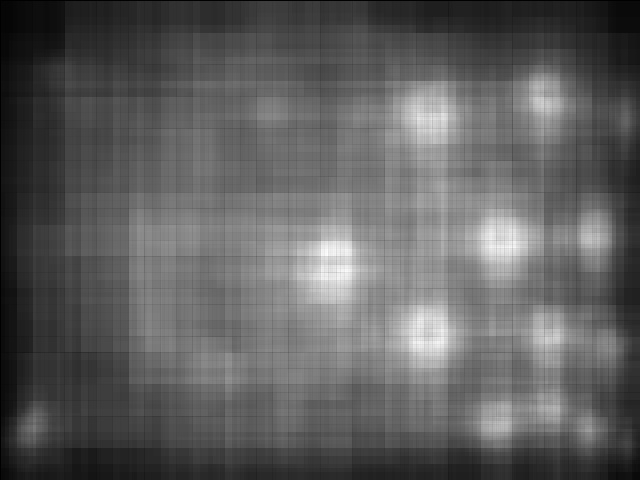
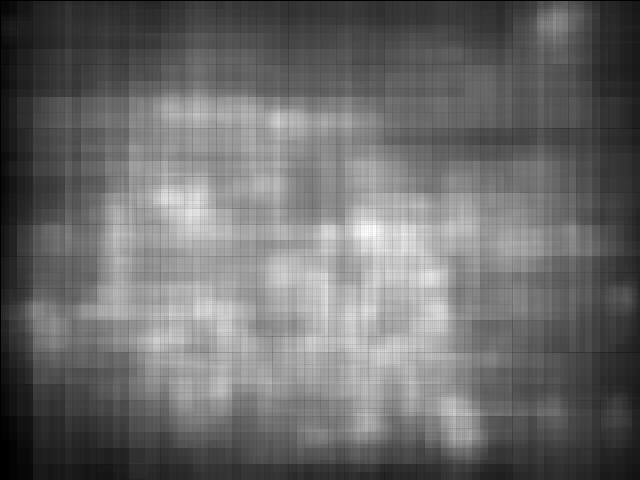
testing reward functions

diff --git a/src/HilbertOptimization.cpp b/src/HilbertOptimization.cpp
@@ -267,28 +267,28 @@ void HilbertOptimization::glDraw()
 
 //    }
 
-    if(greedyPath)
-    {
-        glLineWidth(7);
-        glBegin(GL_LINES);
+//    if(greedyPath)
+//    {
+//        glLineWidth(7);
+//        glBegin(GL_LINES);
 
-        for(int i=0; i<greedyPath->path.size()-1;++i)
-        {
-            double r = greedyPath->path[i+1]->NodeReward()/(CNode::maxDepth+1);
+//        for(int i=0; i<greedyPath->path.size()-1;++i)
+//        {
+//            double r = greedyPath->path[i+1]->NodeReward()/(CNode::maxDepth+1);
 
-            //assert(r>=0);
-            //assert(r<=1);
+//            //assert(r>=0);
+//            //assert(r<=1);
 
-            glColor3f(0,r,1-r);
-            TooN::Vector<3> p1 = greedyPath->path[i]->cnode->GetPos();
-            TooN::Vector<3> p2 = greedyPath->path[i+1]->cnode->GetPos();
+//            glColor3f(0,r,1-r);
+//            TooN::Vector<3> p1 = greedyPath->path[i]->cnode->GetPos();
+//            TooN::Vector<3> p2 = greedyPath->path[i+1]->cnode->GetPos();
 
-            glVertex3f(p1[0],p1[1],p1[2]);
-            glVertex3f(p2[0],p2[1],p2[2]);
-        }
+//            glVertex3f(p1[0],p1[1],p1[2]);
+//            glVertex3f(p2[0],p2[1],p2[2]);
+//        }
 
-        glEnd();
+//        glEnd();
 
-    }
+//    }
 
 }

diff --git a/src/GNode.cpp b/src/GNode.cpp
@@ -273,6 +273,7 @@ bool GNode::GetMaxRewardPath(GNode::Path &p)
 
 bool GNode::ShouldBePruned(double r, double c, double budget, double greedy_reward, double leastRewardFound)
 {
+    static int nnn=0;
     if(c + minPathToGoalCost > budget)
     {
         return true;
@@ -288,7 +289,8 @@ bool GNode::ShouldBePruned(double r, double c, double budget, double greedy_rewa
         {
             if(leastRewardFound > r + cnode->nextHilbertLeaf->GetGNode()->maxRewardToGoal)
             {
-               // ROS_INFO("UBound: %f CUR: %f %f", leastRewardFound, r, cnode->nextHilbertLeaf->GetGNode()->maxRewardToGoal);
+                nnn++;
+                ROS_INFO_THROTTLE_NAMED(1,"UBOUND","UBound %d: %f CUR: %f %f",nnn, leastRewardFound, r, cnode->nextHilbertLeaf->GetGNode()->maxRewardToGoal);
 
                 return true;
             }

diff --git a/src/CNode.cpp b/src/CNode.cpp
@@ -162,8 +162,9 @@ double CNode::GetLocalPrior()
 double CNode::CoverageReward()
 {
     // implement some reward function. (expected number of targets beeing sensed with high resolution?)
-    return p_X;
+    return p_X*0.5*(1-log(0.5+0.95*((double)depth)/maxDepth)/log(2));
 
+    //return p_X*(1/(1+20*((double)depth)/maxDepth));
     //    if(IsLeaf())
     //        return p_X;
     //    else
